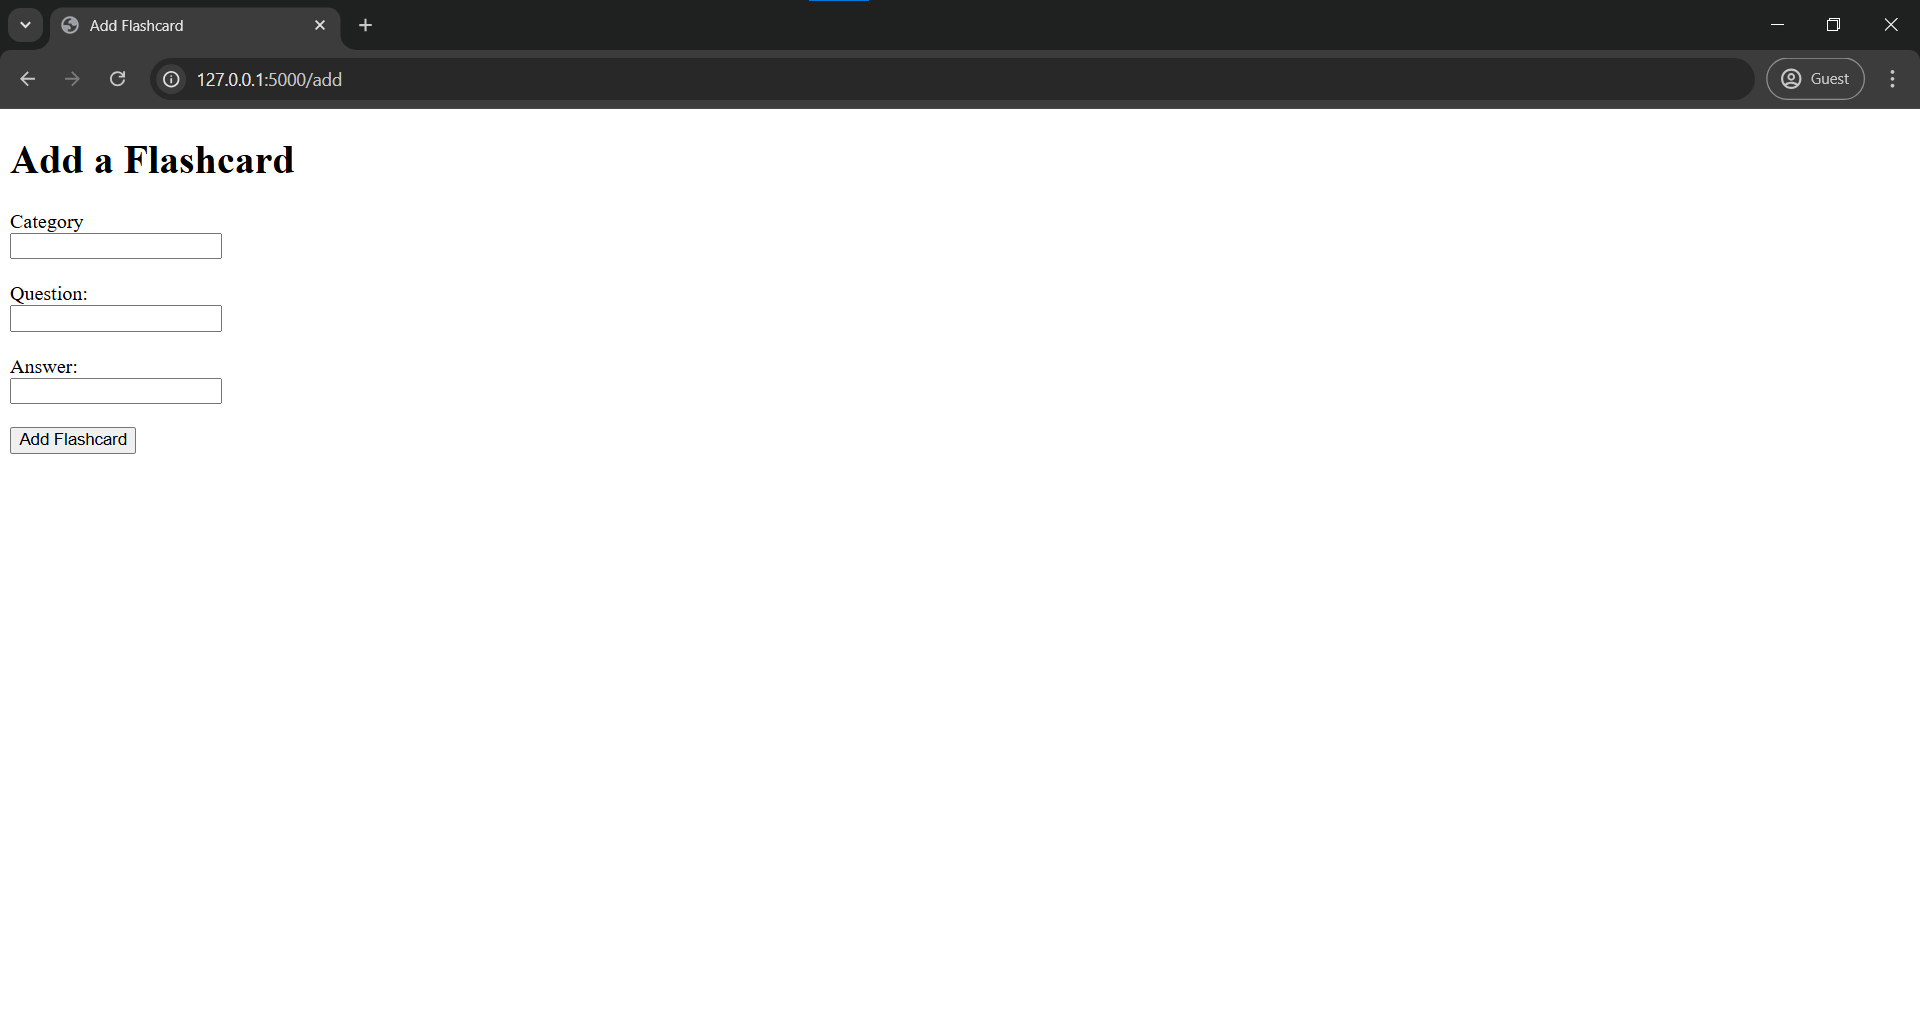
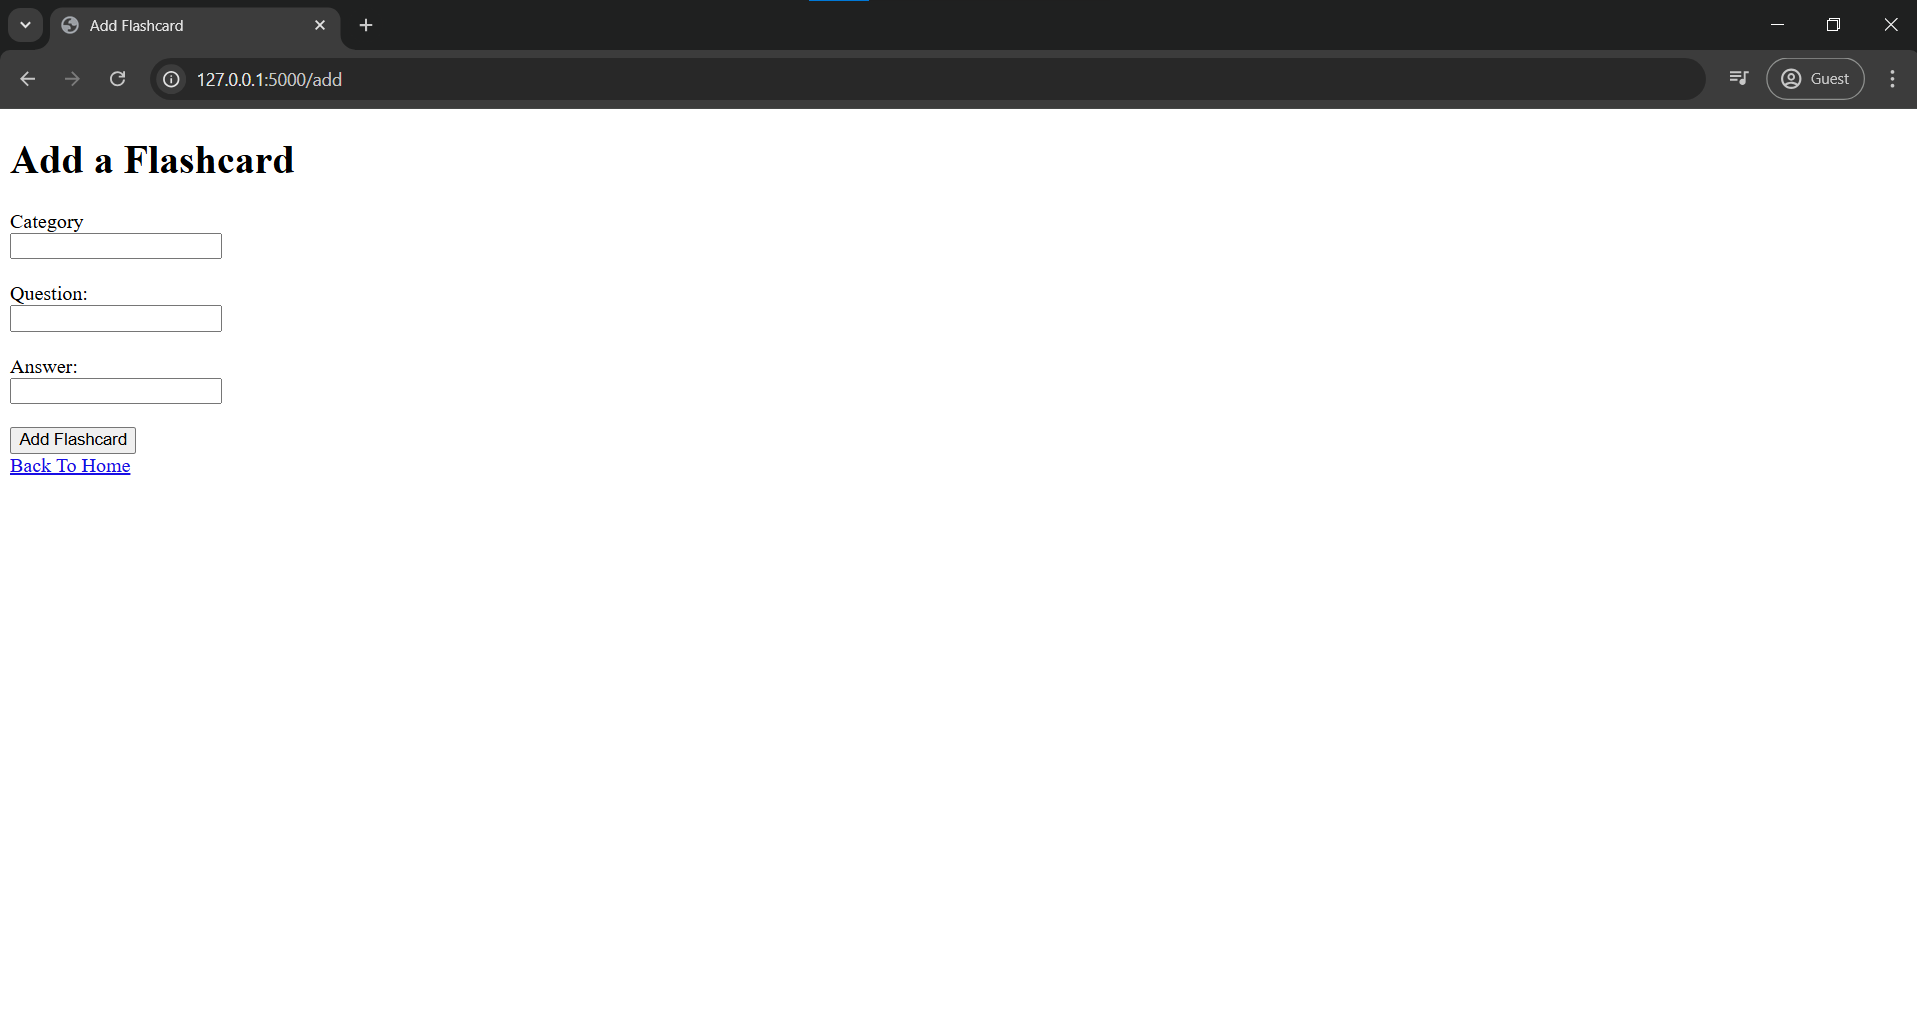
minor fixes

diff --git a/templates/add_flashcard.html b/templates/add_flashcard.html
@@ -18,5 +18,6 @@
         
         <button type="submit">Add Flashcard</button>
     </form>
+    <a href="{{url_for('index')}}">Back To Home</a>
 </body>
 </html>

diff --git a/readme.md b/readme.md
@@ -12,6 +12,15 @@ Made with Python using Flask. Database done using SQLite, website made using HTM
 - Organize by Category
 - Delete Categories - Removes category, along with the flashcards that are in the specified category
 
+## Pages
+
+- Homepage:
+    - Allows for creation of flashcards and categories. Also allows for deletion and editing of existing flashcards. Sorts flashcards by category.
+- Add Flashcard:
+    - Prompts user to enter Category, Question, and Answer to create a new flashcard, can also make a new category.
+- Edit Flashcard: 
+    - Allows user to alter existing flashcard's Question and Answer.
+
 ---
 
 ## Files:
